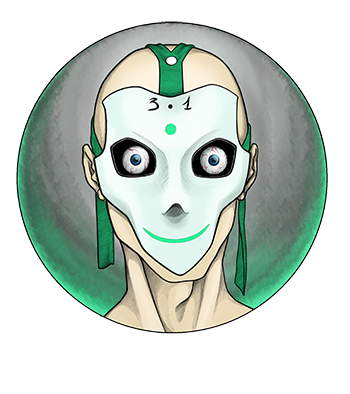
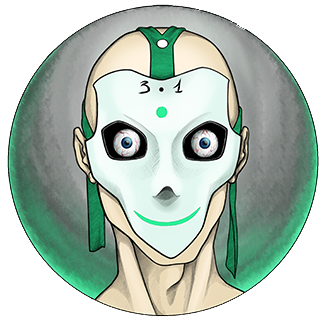
в вывод комментариев в аватарку пользователя прописан путь к текущей его аватарке вместо статичного изображения. Обрезан default.png, чтобы не было пустого пространства в кружке вывода картинки из-за большого прозрачного фона

diff --git a/core/blocks/comment.php b/core/blocks/comment.php
@@ -39,7 +39,7 @@
               <div class='header-title'>
                 <cite class='header-title__title reviews__author-name'>$row->author</cite><time class='reviews__time' datetime='$row->date'>$row->date</time>
               </div>
-              <div class='reviews__author-picture'><img alt='Фото $row->author' class='reviews__author-image' height='33' src='img/reviews/persona-2.jpg' width='50'></div>
+              <div class='reviews__author-picture'><img alt='Фото $row->author' class='reviews__author-image' src='/$avatar1' width='70' height='70'></div>
               <p class='reviews__text'>$row->comment</p>
               </blockquote>";;
   }
